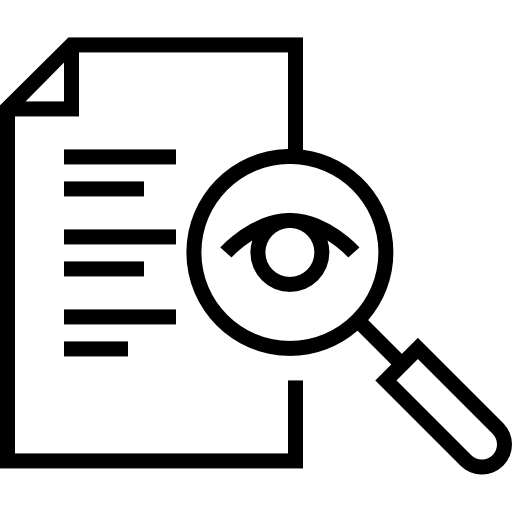
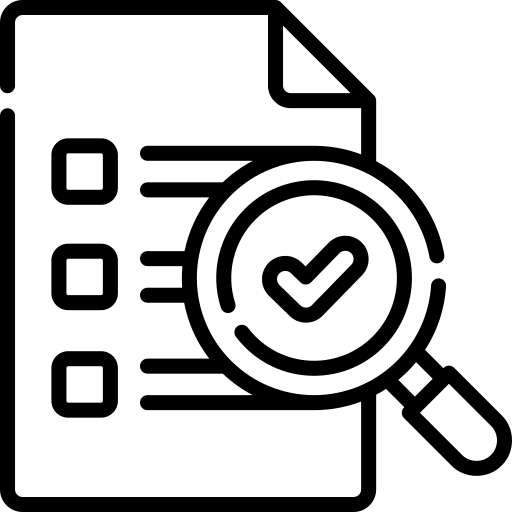
commit

diff --git a/src/components/Dashbord.js b/src/components/Dashbord.js
@@ -1,75 +1,125 @@
 import { Link } from "react-router-dom";
 import logo from "../Asset/logo.png";
 import centang from "../Asset/centang.png";
-//import review from "../Asset/review.png";
-//import { HomeModernIcon } from "@heroicons/react/24/solid";
+import review from "../Asset/review.png";
+import { ArrowLeftOnRectangleIcon } from "@heroicons/react/24/solid";
 function Dashbord() {
   return (
     <>
       <div className="grid grid-rows-3 h-screen">
-        <div className="grid grid-cols-10 h-2/3  max-sm:grid-rows-3 gap-1 max-sm:grid-cols-1">
-          <div className="col-span-3 grid-rows-3 h-full w-full min-w-max max-sm: max-sm:grid-rows-3">
-            {/* logo argh */}
-            <div className="grid h-3/5 w-full mt-2 max-sm:h-2/3 max-sm:m-0">
+        <div className="flex h-2/3 max-sm:flex-col">
+          {/* Row1 */}
+          <div className="basis-3/12 flex flex-col bg-blue-300">
+            <div className="w-full basis-3/5">
               <div
-                className="h-4/5 bg-no-repeat bg-contain bg-center"
+                className="mx-auto w-2/3 h-full bg-no-repeat bg-contain bg-center"
                 style={{ backgroundImage: "url(" + logo + ")" }}
               ></div>
             </div>
-            {/* logo argha end */}
-            {/* user */}
-            <div className="grid h-1/6 place-content-center font-medium max-sm:h-1/3">
-              Danang wijiyanto Calibration
-            </div>
-            {/* user end */}
-            {/* date */}
-            <div className="grid h-1/6 place-content-center font-medium max-sm:h-1/3">
-              11:11 11-11-1111
-            </div>
-            {/* date end */}
-          </div>
-          <div className="col-span-5">
-            <span className="grid place-content-center h-full w-full font-semibold text-7xl max-sm:text-xl">
-              Online Checklist
-            </span>
-          </div>
-          <div className=" col-span-2 grid grid-rows-5 place-content-center">
-            <div></div>
-            <div>
-              <Link
-                className="w-full bg-gray-300 hover:bg-gray-400 text-gray-800 font-bold py-2 px-4 rounded-md"
-                to="/login"
-              >
-                {" "}
-                Sign Out
-              </Link>
+
+            <div className="basis-1/5 mx-auto flex">
+              <span className="self-center">
+                Danang wijiyanto / Calibration
+              </span>
             </div>
 
-            <div></div>
-            <div></div>
-          </div>
-        </div>
-        <div className="grid grid-cols-10 bg-black gap-1">
-          <div></div>
-          <div></div>
-          <div className="grid grid-rows-6 col-span-3 w-full">
-            <div className="grid row-span-4 justify-items-center ">
-              <img
-                src={centang}
-                alt=""
-                className="w-5/6 h-5/6 self-center"
-              ></img>
+            <div className="basis-1/5 mx-auto flex">
+              <span className="self-center">11:11 11-11-1111</span>
             </div>
-            <div></div>
-            <div></div>
           </div>
-          <div className="col-span-3"></div>
-          <div></div>
-          <div></div>
+          {/* Row1 end */}
+
+          <div className="basis-3/5 w-full bg-slate-400 ">
+            <div className="flex  h-full font-semibold text-6xl max-sm:text-xl">
+              <span className="mx-auto self-center">Online&nbsp;Checklist</span>
+            </div>
+          </div>
+
+          <div className="basis-1/6">
+            <Link to="/login">
+              <div className="flex bg-red-400 w-full h-full self center">
+                <ArrowLeftOnRectangleIcon className="mx-auto h-auto w-2/3 max-sm:h-16" />
+              </div>
+            </Link>
+          </div>
         </div>
-        <div className="grid">
-          <div className="grid grid-row-8 h-full w-full">
-            <div></div>
+
+        <div className="flex bg-zinc-300 flex-row felx-wrap place-content-center max-sm:flex-col">
+          <div className="pt-[3%] border-2 w-[30%] max-sm:mx-auto">
+            <div className="flex flex-col">
+              <div className="h-3/5">
+                <img
+                  className="mx-auto"
+                  src={centang}
+                  alt=""
+                  width="45%"
+                  height="auto"
+                ></img>
+              </div>
+              <div className="mt-[5%] flex justify-center h-1/5">
+                Update checklist
+              </div>
+              <div className="flex justify-center h-1/5">
+                <input className="" type="radio" name="mode"></input>
+              </div>
+            </div>
+          </div>
+          <div className="pt-[3%] border-2 w-[30%] max-sm:mx-auto">
+            <div className="flex flex-col mt-[0%]">
+              <div className="h-3/5">
+                <img
+                  className="mx-auto"
+                  src={review}
+                  alt=""
+                  width="45%"
+                  height="auto"
+                ></img>
+              </div>
+              <div className="mt-[5%] flex justify-center h-1/5">
+                Update checklist
+              </div>
+              <div className="flex justify-center h-1/5">
+                <input className="" type="radio" name="mode"></input>
+              </div>
+            </div>
+          </div>
+        </div>
+
+        <div className="grid bg-slate-300 max-sm:mt-[10%]">
+          <div className="grid pt-[1%]">
+            <div className="flex flex-row h-1/2 justify-center gap-5">
+              <div className="flex flex-col">
+                <span className="self-center">Line</span>
+                <select className="border-2">
+                  <option>Line OPP 4</option>
+                  <option>Line OPP 5</option>
+                  <option>Line OPP 6</option>
+                  <option>Line OPP 7</option>
+                  <option>Line OPP 8</option>
+                  <option>PET</option>
+                  <option>Coating 1</option>
+                  <option>Coating 3</option>
+                  <option>Coating 4</option>
+                  <option>Metallize 1 </option>
+                  <option>Metallize 2 </option>
+                  <option>Metallize 3 </option>
+                  <option>Metallize 4 </option>
+                </select>
+              </div>
+              <div className="flex flex-col">
+                <span className="self-center">Form</span>
+                <select className="border-2">
+                  <option>Electrical</option>
+                </select>
+              </div>
+              <div className="flex flex-col">
+                <span className="self-center">View</span>
+                <select className="border-2">
+                  <option>Specified</option>
+                  <option>General</option>
+                </select>
+              </div>
+            </div>
             <div className="flex place-content-center">
               <button class="h-2/5 bg-gray-300 hover:bg-gray-400 text-gray-800 font-bold py-2 px-4 rounded-md">
                 Submit
